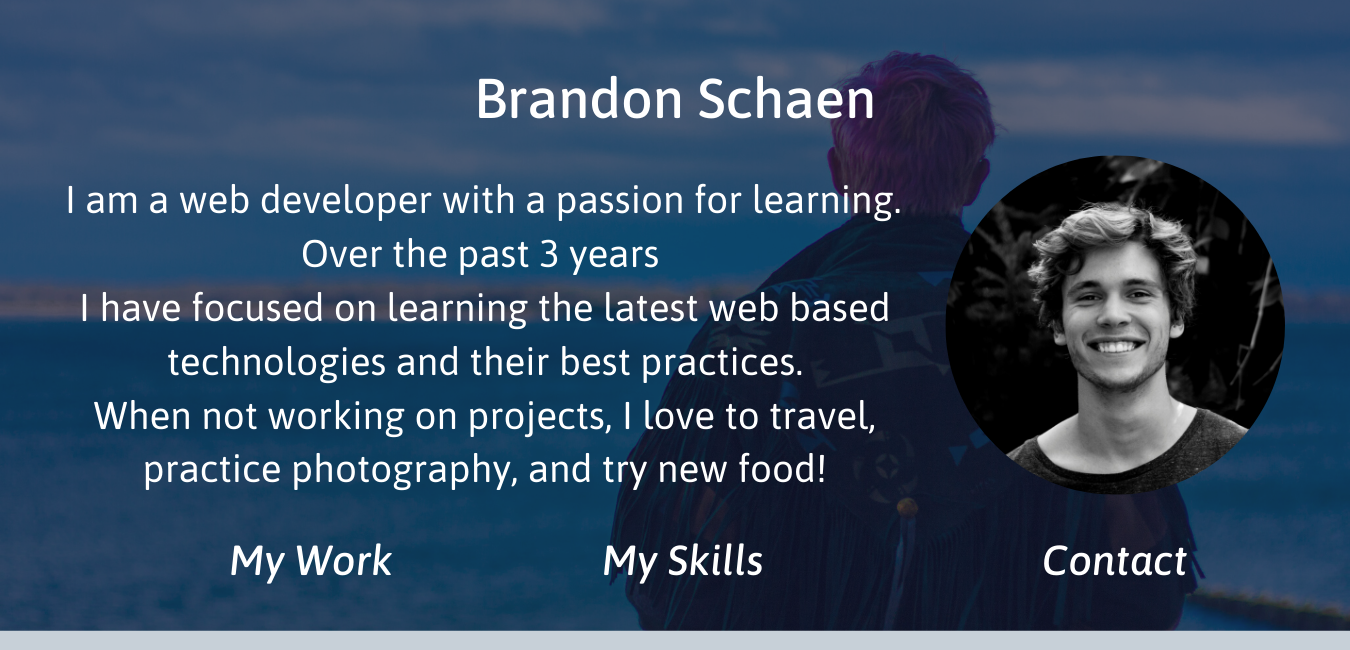
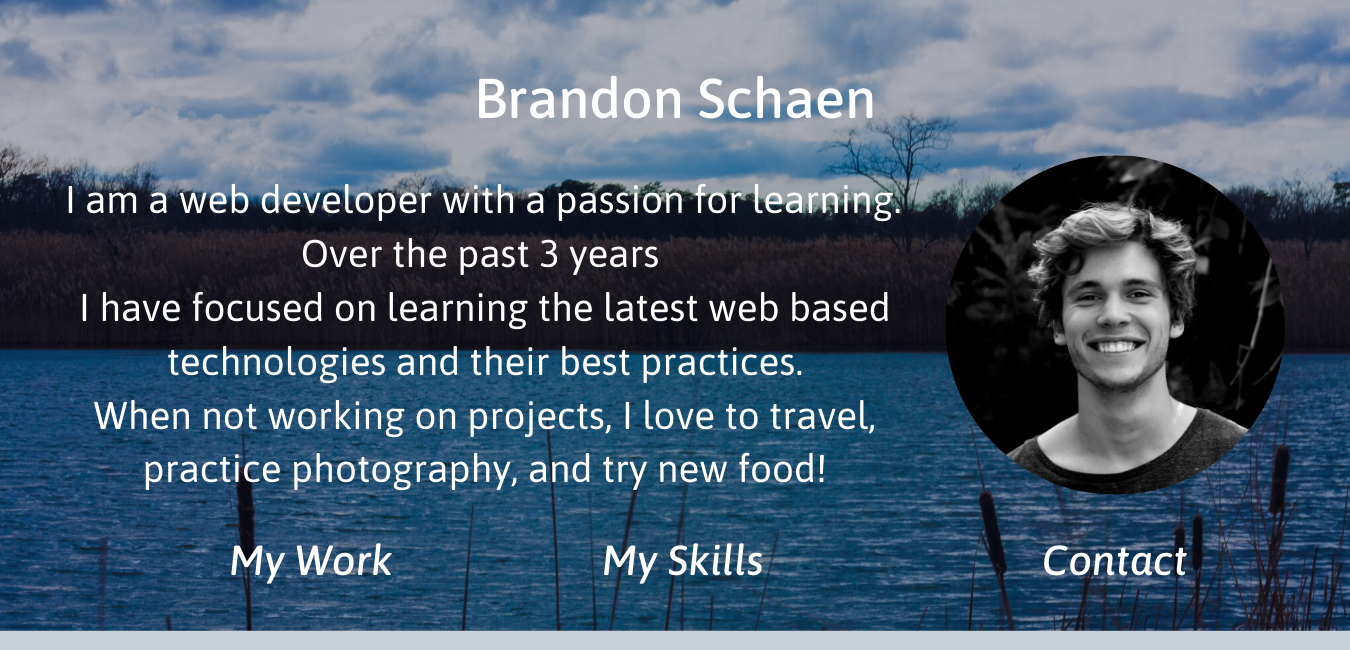
New concept bg and new bg in files

diff --git a/public/style.css b/public/style.css
@@ -1,3 +1,3 @@
 body{
-  background-image: url("../overlookWater.jpg");
+  background-image: url("../shore.jpg");
 }
